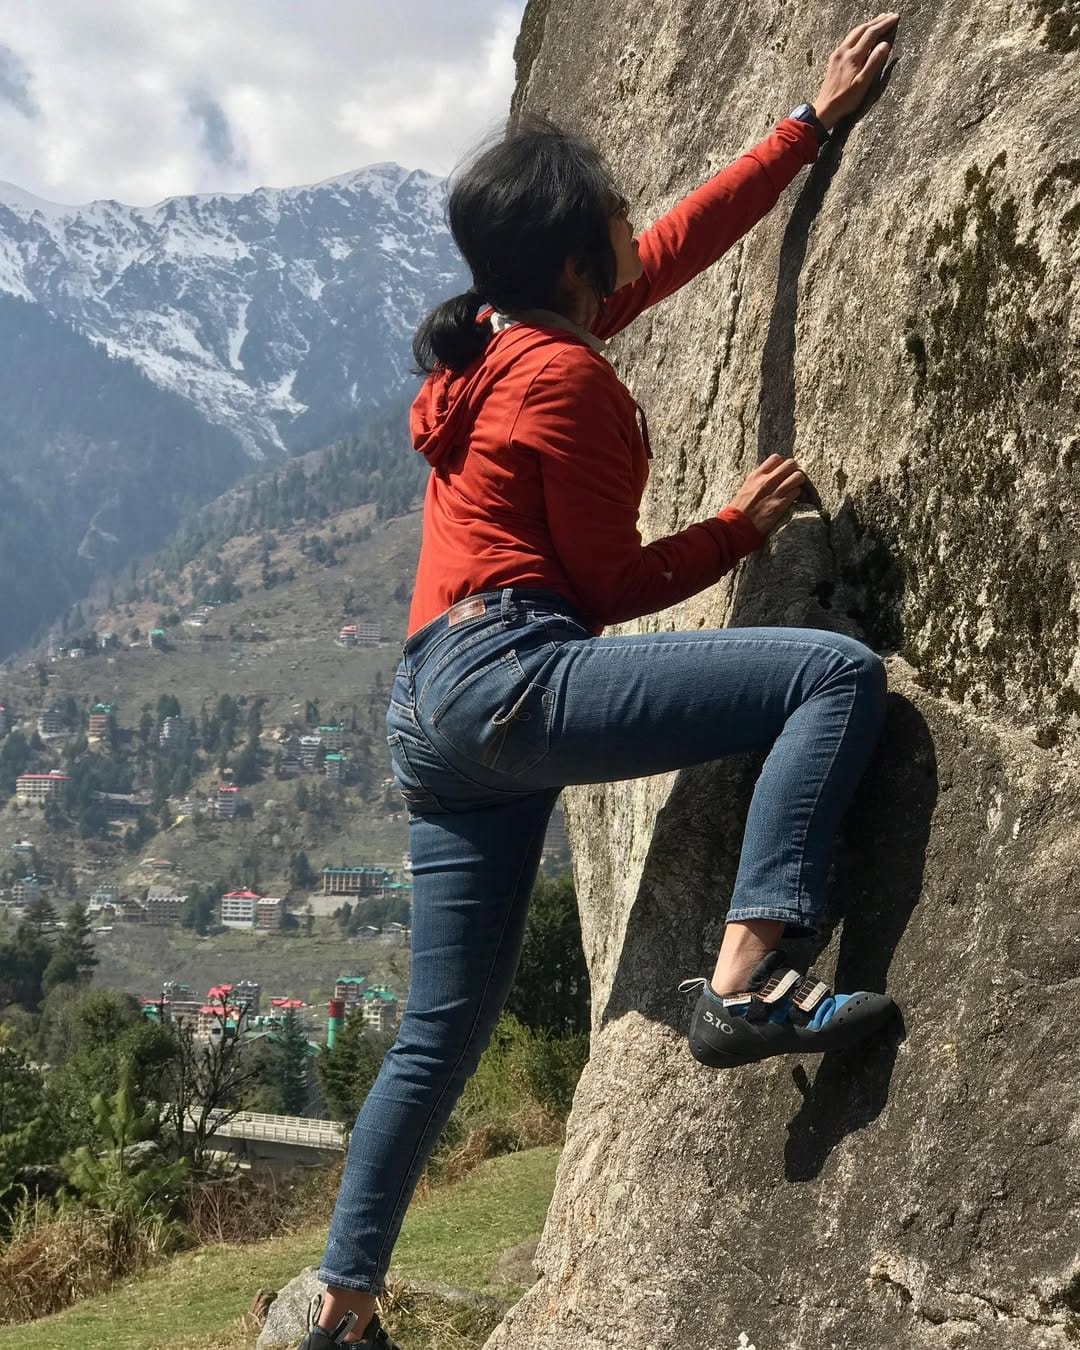
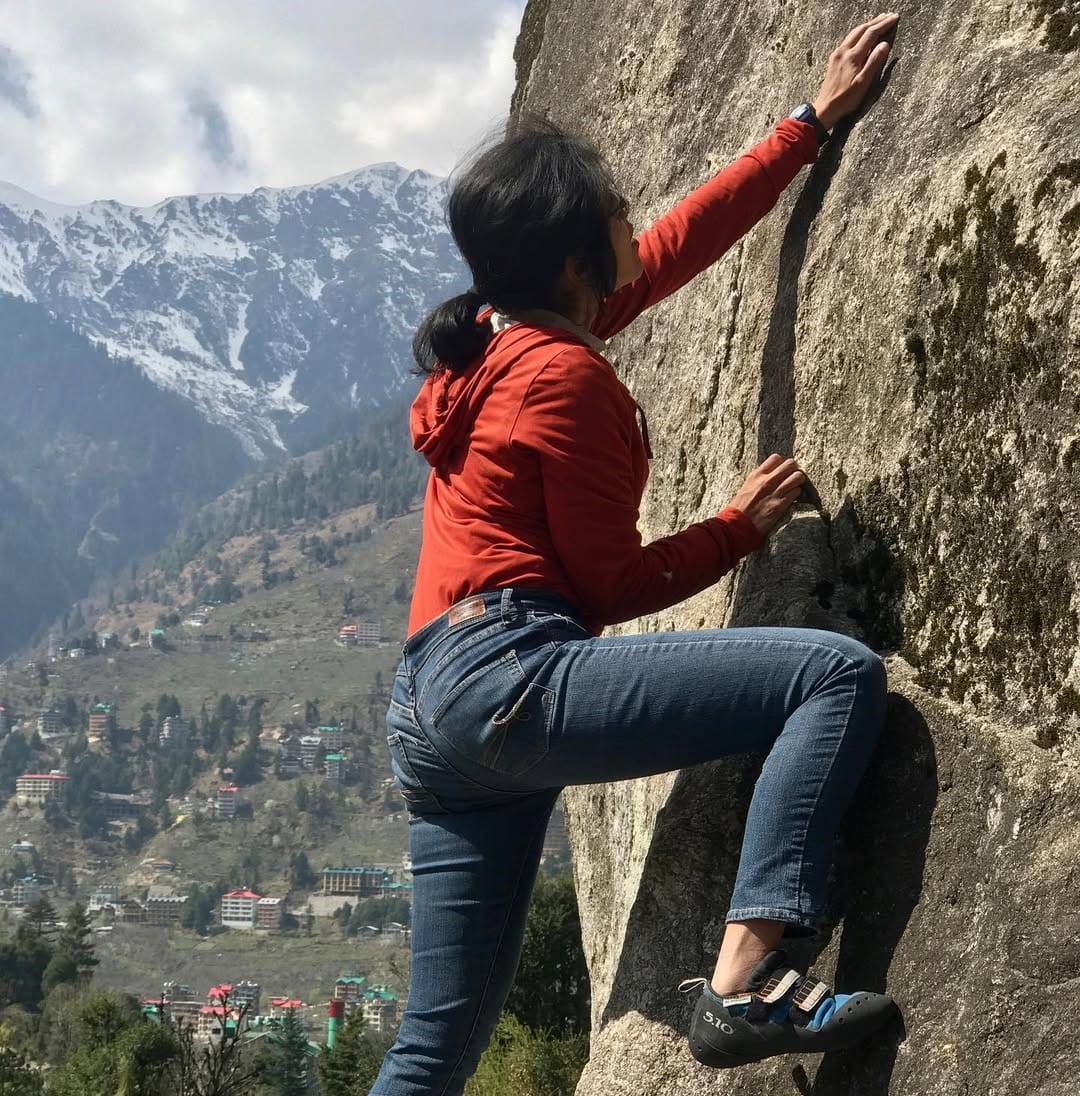
Add images

diff --git a/src/pages/Home/Festival.jsx b/src/pages/Home/Festival.jsx
@@ -372,7 +372,8 @@ const sportsData = {
   ],
 };
 
-const ImageCarousel = ({ images, sportName }) => {
+// Card Image Carousel - Smaller size for cards
+const CardImageCarousel = ({ images, sportName }) => {
   const [currentIndex, setCurrentIndex] = useState(0);
   const [isPaused, setIsPaused] = useState(false);
 
@@ -383,7 +384,7 @@ const ImageCarousel = ({ images, sportName }) => {
       setCurrentIndex((prevIndex) =>
         prevIndex === images.length - 1 ? 0 : prevIndex + 1
       );
-    }, 4000); // Slightly longer interval for fade effect
+    }, 4000);
 
     return () => clearInterval(interval);
   }, [images.length, isPaused]);
@@ -410,15 +411,14 @@ const ImageCarousel = ({ images, sportName }) => {
       onMouseEnter={() => setIsPaused(true)}
       onMouseLeave={() => setIsPaused(false)}
     >
-      <div className="relative md:h-64 h-80 overflow-hidden">
-        {/* Fade transition container */}
+      <div className="relative md:h-68 h-70 overflow-hidden">
         <div className="relative w-full h-full">
           {images.map((image, index) => (
             <img
               key={index}
               src={image}
               alt={`${sportName} - Image ${index + 1}`}
-              className={`absolute top-0 left-0 w-full md:h-64 h-80 object-cover transition-opacity duration-1000 ${
+              className={`absolute top-0 left-0 w-full md:h-68 h-70 object-cover transition-opacity duration-1000 ${
                 index === currentIndex ? "opacity-100" : "opacity-0"
               }`}
               onError={(e) => {
@@ -438,10 +438,10 @@ const ImageCarousel = ({ images, sportName }) => {
               e.stopPropagation();
               prevImage();
             }}
-            className="absolute left-2 top-1/2 transform -translate-y-1/2 bg-black bg-opacity-50 text-white p-2 rounded-full opacity-0 group-hover:opacity-100 transition-opacity duration-300 z-10"
+            className="absolute left-2 top-1/2 transform -translate-y-1/2 bg-black bg-opacity-50 text-white p-1 rounded-full opacity-0 group-hover:opacity-100 transition-opacity duration-300 z-10"
           >
             <svg
-              className="w-4 h-4"
+              className="w-3 h-3"
               fill="none"
               stroke="currentColor"
               viewBox="0 0 24 24"
@@ -459,10 +459,10 @@ const ImageCarousel = ({ images, sportName }) => {
               e.stopPropagation();
               nextImage();
             }}
-            className="absolute right-2 top-1/2 transform -translate-y-1/2 bg-black bg-opacity-50 text-white p-2 rounded-full opacity-0 group-hover:opacity-100 transition-opacity duration-300 z-10"
+            className="absolute right-2 top-1/2 transform -translate-y-1/2 bg-black bg-opacity-50 text-white p-1 rounded-full opacity-0 group-hover:opacity-100 transition-opacity duration-300 z-10"
           >
             <svg
-              className="w-4 h-4"
+              className="w-3 h-3"
               fill="none"
               stroke="currentColor"
               viewBox="0 0 24 24"
@@ -480,7 +480,136 @@ const ImageCarousel = ({ images, sportName }) => {
 
       {/* Dots Indicator */}
       {images.length > 1 && (
-        <div className="absolute bottom-2 left-1/2 transform -translate-x-1/2 flex space-x-2 z-10">
+        <div className="absolute bottom-2 left-1/2 transform -translate-x-1/2 flex space-x-1 z-10">
+          {images.map((_, index) => (
+            <button
+              key={index}
+              onClick={(e) => {
+                e.stopPropagation();
+                goToImage(index);
+              }}
+              className={`w-2 h-2 rounded-full transition-all duration-300 ${
+                index === currentIndex
+                  ? "bg-white scale-125"
+                  : "bg-white bg-opacity-50 hover:bg-opacity-75"
+              }`}
+            />
+          ))}
+        </div>
+      )}
+    </div>
+  );
+};
+
+// Modal Image Carousel - Larger size for modal/popup
+const ModalImageCarousel = ({ images, sportName }) => {
+  const [currentIndex, setCurrentIndex] = useState(0);
+  const [isPaused, setIsPaused] = useState(false);
+
+  useEffect(() => {
+    if (images.length <= 1 || isPaused) return;
+
+    const interval = setInterval(() => {
+      setCurrentIndex((prevIndex) =>
+        prevIndex === images.length - 1 ? 0 : prevIndex + 1
+      );
+    }, 4000);
+
+    return () => clearInterval(interval);
+  }, [images.length, isPaused]);
+
+  const nextImage = () => {
+    setCurrentIndex((prevIndex) =>
+      prevIndex === images.length - 1 ? 0 : prevIndex + 1
+    );
+  };
+
+  const prevImage = () => {
+    setCurrentIndex((prevIndex) =>
+      prevIndex === 0 ? images.length - 1 : prevIndex - 1
+    );
+  };
+
+  const goToImage = (index) => {
+    setCurrentIndex(index);
+  };
+
+  return (
+    <div
+      className="relative overflow-hidden rounded-lg group"
+      onMouseEnter={() => setIsPaused(true)}
+      onMouseLeave={() => setIsPaused(false)}
+    >
+      <div className="relative md:h-200 h-120 overflow-hidden">
+        <div className="relative w-full h-full">
+          {images.map((image, index) => (
+            <img
+              key={index}
+              src={image}
+              alt={`${sportName} - Image ${index + 1}`}
+              className={`absolute top-0 left-0 w-full md:h-200 h-120 object-cover transition-opacity duration-1000 ${
+                index === currentIndex ? "opacity-100" : "opacity-0"
+              }`}
+              onError={(e) => {
+                e.target.src =
+                  "https://images.unsplash.com/photo-1551632811-561732d1e306?w=800&h=500&fit=crop";
+              }}
+            />
+          ))}
+        </div>
+      </div>
+
+      {/* Navigation Arrows */}
+      {images.length > 1 && (
+        <>
+          <button
+            onClick={(e) => {
+              e.stopPropagation();
+              prevImage();
+            }}
+            className="absolute left-4 top-1/2 transform -translate-y-1/2 bg-black bg-opacity-50 text-white p-3 rounded-full opacity-0 group-hover:opacity-100 transition-opacity duration-300 z-10 hover:bg-opacity-70"
+          >
+            <svg
+              className="w-6 h-6"
+              fill="none"
+              stroke="currentColor"
+              viewBox="0 0 24 24"
+            >
+              <path
+                strokeLinecap="round"
+                strokeLinejoin="round"
+                strokeWidth={2}
+                d="M15 19l-7-7 7-7"
+              />
+            </svg>
+          </button>
+          <button
+            onClick={(e) => {
+              e.stopPropagation();
+              nextImage();
+            }}
+            className="absolute right-4 top-1/2 transform -translate-y-1/2 bg-black bg-opacity-50 text-white p-3 rounded-full opacity-0 group-hover:opacity-100 transition-opacity duration-300 z-10 hover:bg-opacity-70"
+          >
+            <svg
+              className="w-6 h-6"
+              fill="none"
+              stroke="currentColor"
+              viewBox="0 0 24 24"
+            >
+              <path
+                strokeLinecap="round"
+                strokeLinejoin="round"
+                strokeWidth={2}
+                d="M9 5l7 7-7 7"
+              />
+            </svg>
+          </button>
+        </>
+      )}
+
+      {/* Dots Indicator */}
+      {images.length > 1 && (
+        <div className="absolute bottom-4 left-1/2 transform -translate-x-1/2 flex space-x-3 z-10">
           {images.map((_, index) => (
             <button
               key={index}
@@ -497,6 +626,13 @@ const ImageCarousel = ({ images, sportName }) => {
           ))}
         </div>
       )}
+
+      {/* Image Counter */}
+      {images.length > 1 && (
+        <div className="absolute top-4 right-4 bg-black bg-opacity-50 text-white px-3 py-1 rounded-full text-sm z-10">
+          {currentIndex + 1} / {images.length}
+        </div>
+      )}
     </div>
   );
 };
@@ -507,7 +643,7 @@ const DetailModal = ({ sport, isOpen, onClose }) => {
 
   return (
     <div className="fixed inset-0 bg-black bg-opacity-50 flex items-center justify-center p-4 z-50">
-      <div className="bg-white rounded-lg max-w-4xl w-full max-h-[90vh] overflow-y-auto">
+      <div className="bg-white rounded-lg max-w-6xl w-full max-h-[95vh] overflow-y-auto">
         <div className="relative">
           {/* Header */}
           <div className="flex justify-between items-center p-6 border-b">
@@ -536,9 +672,9 @@ const DetailModal = ({ sport, isOpen, onClose }) => {
 
           {/* Content */}
           <div className="p-6">
-            {/* Image Carousel */}
+            {/* Image Carousel - Using larger modal carousel */}
             <div className="mb-6">
-              <ImageCarousel
+              <ModalImageCarousel
                 images={sport.images}
                 sportName={sport.sport || sport.event}
               />
@@ -704,7 +840,7 @@ const DetailModal = ({ sport, isOpen, onClose }) => {
   );
 };
 
-// SportCard Component with Image Carousel
+// SportCard Component with Card Image Carousel
 const SportCard = ({ sport }) => {
   const [isModalOpen, setIsModalOpen] = useState(false);
   const { openPopup } = usePopup();
@@ -720,8 +856,8 @@ const SportCard = ({ sport }) => {
   return (
     <>
       <div className="bg-white rounded-lg shadow-md transition-all duration-300 transform hover:scale-105 hover:shadow-xl cursor-pointer flex flex-col h-full border border-gray-200">
-        {/* Image Carousel Section */}
-        <ImageCarousel
+        {/* Image Carousel Section - Using smaller card carousel */}
+        <CardImageCarousel
           images={sport.images}
           sportName={sport.sport || sport.event}
         />
